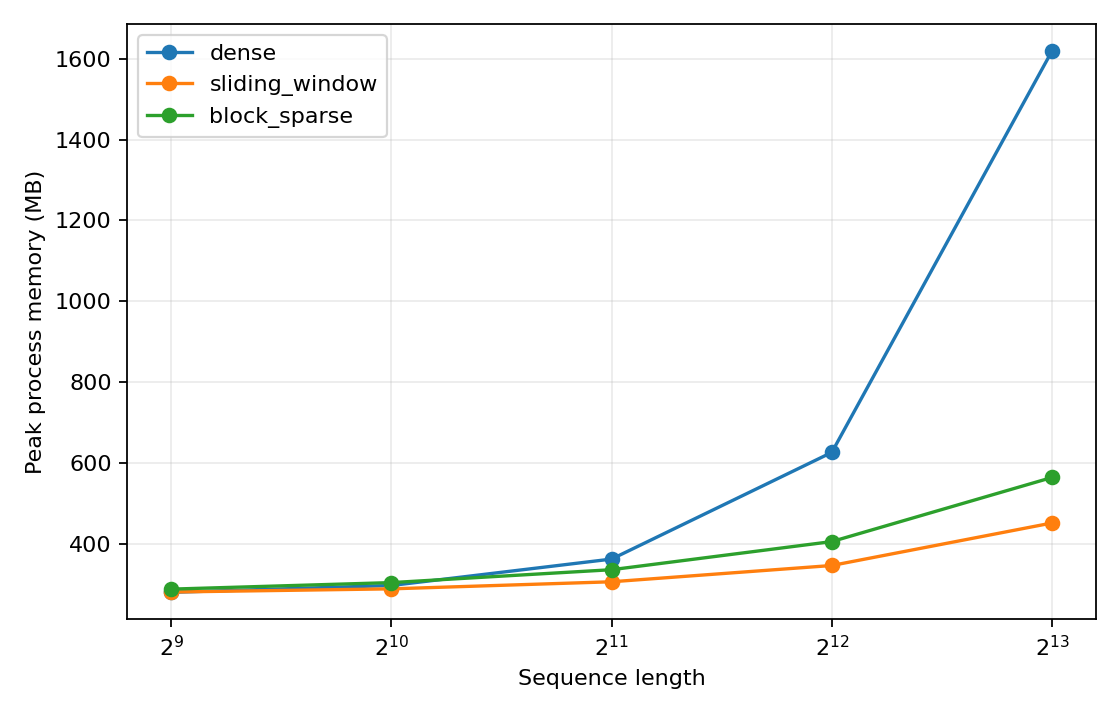
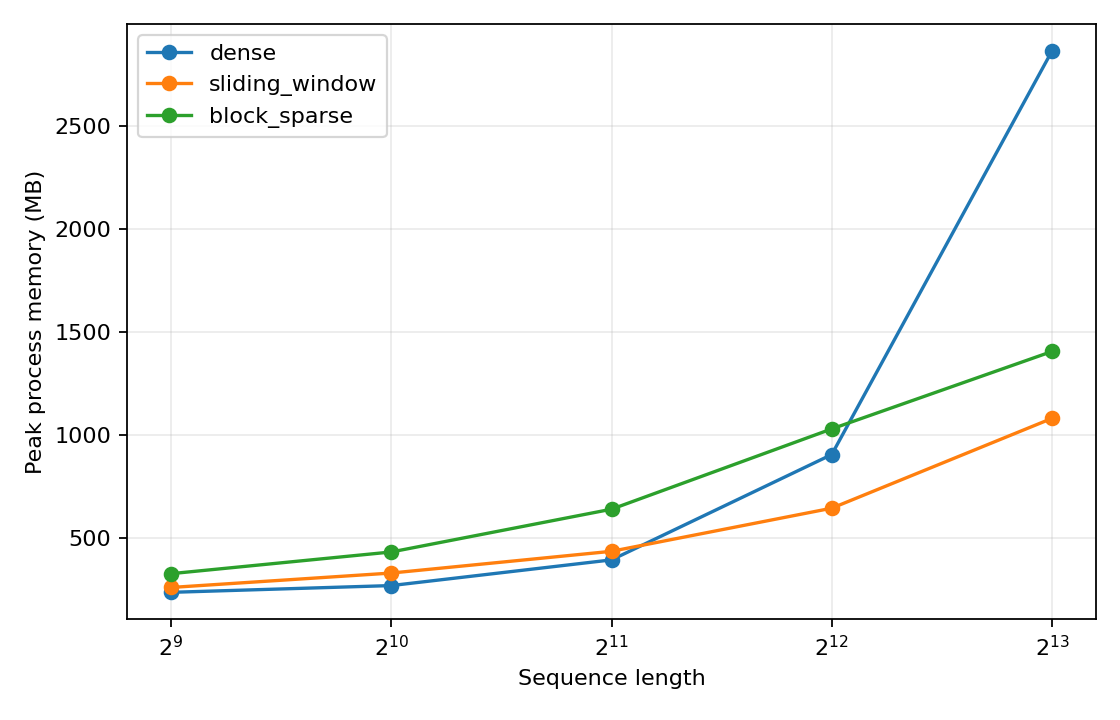
add Windows-compatible benchmark results

diff --git a/benchmarks/benchmark_attention.py b/benchmarks/benchmark_attention.py
@@ -2,7 +2,6 @@ import argparse
 import json
 import os
 import platform
-import resource
 import subprocess
 import sys
 import time
@@ -31,10 +30,15 @@ def hardware_string():
 
 
 def process_peak_memory_mb():
-    value = resource.getrusage(resource.RUSAGE_SELF).ru_maxrss
-    if sys.platform == 'darwin':
-        return value / (1024 * 1024)
-    return value / 1024
+    """Return peak process memory in MB.
+
+    Windows does not provide the Unix `resource` module, so use
+    psutil on Windows and Unix-like systems.
+    """
+    import psutil
+
+    process = psutil.Process(os.getpid())
+    return process.memory_info().rss / (1024 * 1024)
 
 
 def build_inputs(n, heads, dim, device, dtype):
